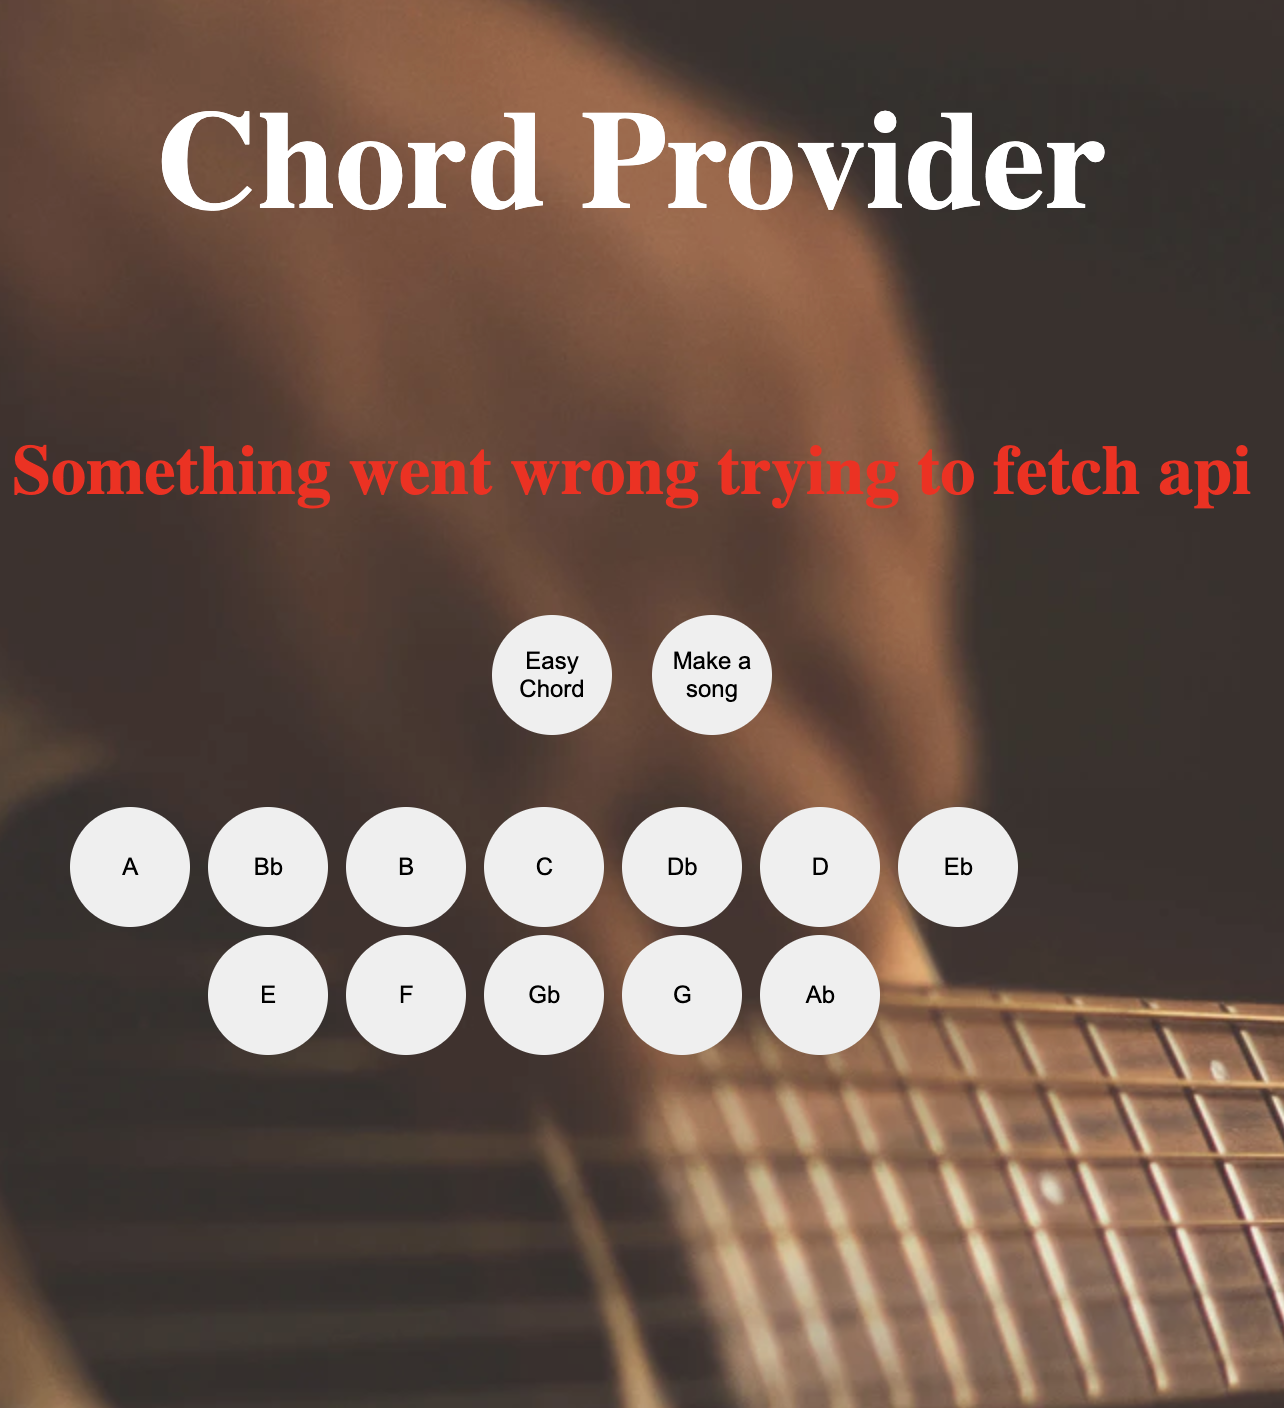
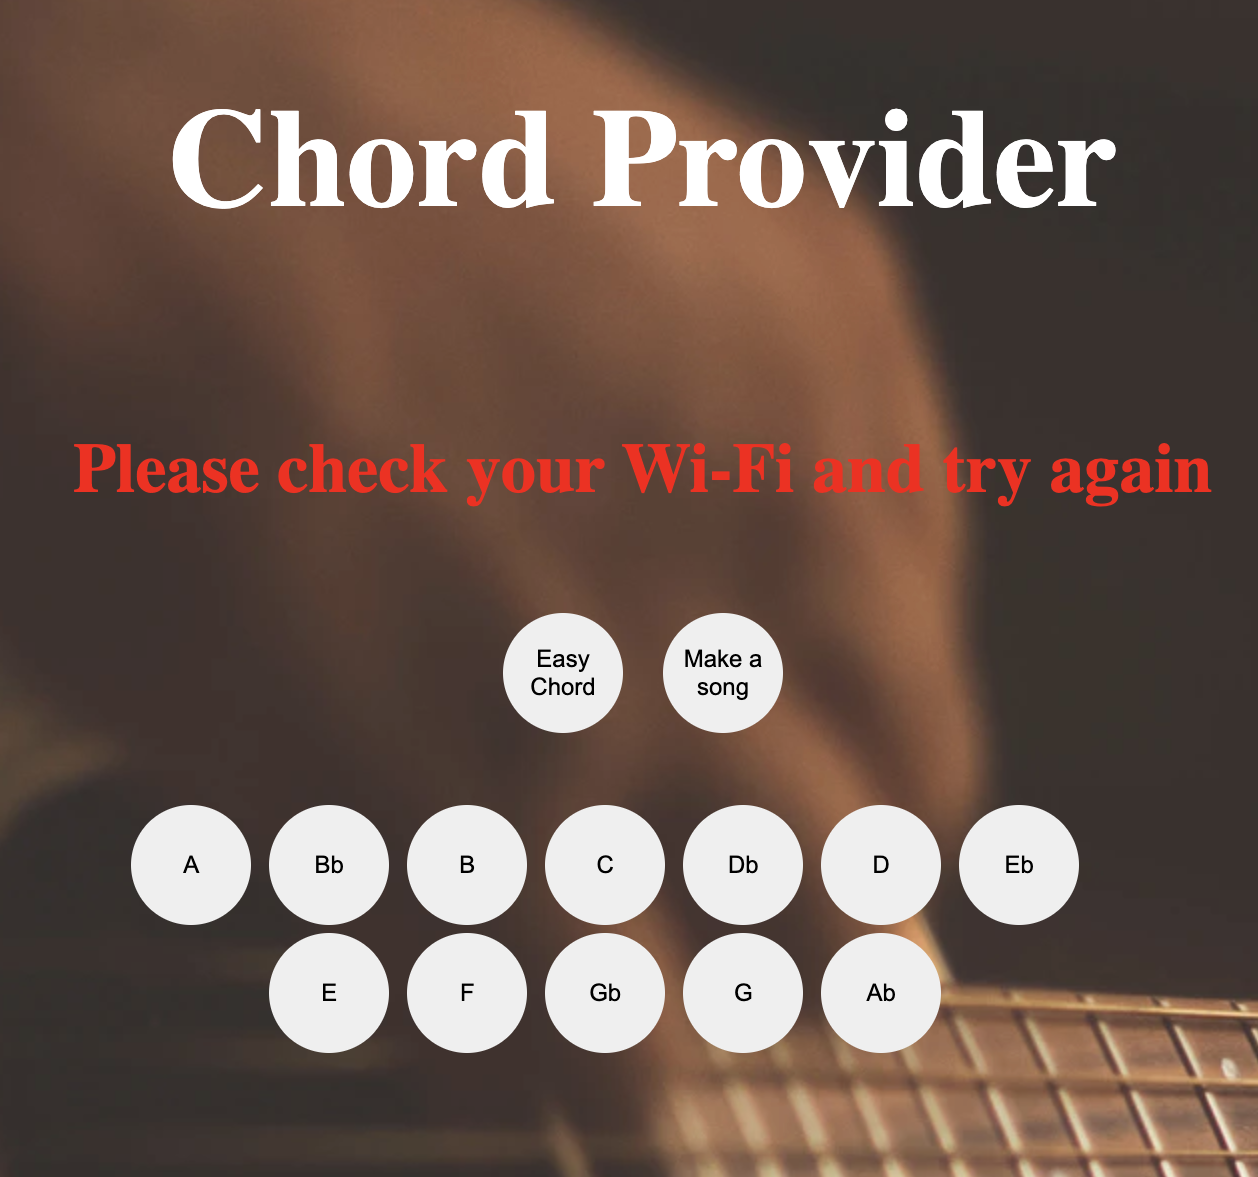
add reflektion

diff --git a/app/src/js/components/my-chordProviderWindow.js b/app/src/js/components/my-chordProviderWindow.js
@@ -73,17 +73,19 @@ customElements.define('my-chordproviderwindow',
       this.flash = this.shadowRoot.querySelector('#flash')
 
       this.chordButton.addEventListener('click', () => {
+        this.flash.style.color = 'white'
         this.flash.innerText = 'Go ahead and pick a chord'
         this.display.setAttribute('show', this.chordButton.getAttribute('text'))
       })
 
       this.chordsInKeyBtn.addEventListener('click', () => {
+        this.flash.style.color = 'white'
         this.flash.innerText = 'Go ahead and pick a chord for a song'
         this.display.setAttribute('show', this.chordsInKeyBtn.getAttribute('text'))
       })
 
       this.addEventListener('errorflash', (e) => {
-        this.flash.innerText = 'Something went wrong trying to fetch api'
+        this.flash.innerText = 'Please check your Wi-Fi and try again'
         this.flash.style.color = 'red'
       })
     }

diff --git a/Reflektion.md b/Reflektion.md
@@ -11,10 +11,11 @@ Genom hela skapandet av både min modul och denna app så har det här känts so
 
 # Functions 
 I bokens kapitel Functions har jag tagit fasta på tre koncept att försöka fokusera på som känns väldigt relaterade till varandra.
-**Small** - Denna regel säger enligt boken att funktioner i det flesta fall tjänar på att hållas små(20-30 rader). Detta har verkligen varit en utmaning att följa men det börjar kännas mer naturligt att hitta vägen närmre det resultatet. För att funktionerna ska kunna hållas små så hjälper koncepten **Do one thing** och **One level of abstraction per funktion** att åstadkomma detta. Det blir då också tydligt att exempelvis dessa tre koncept känns väldigt hårt sammankopplade. Försöker man följa ett konceptet **small** så blir de andra två på något sätt lösningen på att uppnå detta. Min publika metod getTransposedChords() tycker jag är ett bra exemel på detta. Den är liten, gör egentligen bara en sak och håller sig till en hög abstarktionsnivå och det är tydligt va den gör. Det man skulle kunna disktutera är att errorhandling faktiskt är en sak. Så på sätt och vis gör den ju även det men har svårt att se hur jag skulle lösa det på annat sätt.
+**Small** - Denna regel säger enligt boken att funktioner i det flesta fall tjänar på att hållas små(20-30 rader). Detta har verkligen varit en utmaning att följa men det börjar kännas mer naturligt att hitta vägen närmre det resultatet. För att funktionerna ska kunna hållas små så hjälper koncepten **Do one thing** och **One level of abstraction per funktion** att åstadkomma detta. Det blir då också tydligt att exempelvis dessa tre koncept känns väldigt hårt sammankopplade. Försöker man följa ett konceptet **small** så blir de andra två på något sätt lösningen på att uppnå detta. Min publika metod getTransposedChords() tycker jag är ett bra exemel på detta. Den är liten, gör egentligen bara en sak och håller sig till en hög abstarktionsnivå och det är tydligt va den gör. Det man skulle kunna disktutera är att errorhandling faktiskt är en sak. Så på sätt och vis gör den ju även det men har svårt att se hur jag skulle lösa det på annat sätt. I några fall på lägre abstraktionnivå har jag tyvärr inte kunnat följa detta fullt ut och bryter därmed mot **functions should not be large enough to hold nested structures** men jag får helt enkelt inse att en del saker tar längre tid att kunna applicera fullt ut.
 
 
- <img src="images/transposedchords.png" width="700" >
+ <img src="images/transposedchords.png" width="500" >  <img src="images/chordsthatfitsinkey.png" width="500" >
+
  
 
 # Comments 
@@ -39,11 +40,11 @@ I detta kapitel diskuterar författaren även en grundregel som kallas **The New
 
 
 # Error handling 
-Större delen av min error hantering ligger i en egen klass vid namn ErrorHandler där felen kastas uppåt och sedan får utvecklaren välja hur den vill hantera felen. Detta gör att övrig kod inte kladdas ner av felhanteringen i lika stor utsträckning. I Clean code kan vi läsa om att vi inte ska returnera null **Don´t return null** utan istället returnera exeptions. I kurserna där vi använt java som programmeringsspråk så har jag i stor utsträckning använt mig av att returnera null men inte alls på samma sätt i javascript. I gränssnittet har jag säkrat upp de flesta av felen som kan uppstå genom att jag bara erbjuder ett visst antal ackord som alternativ. Eftersom jag använder mig av ett api blir det dock viktigt att hantera ett fel som sker i kommunikationen med detta. Det gör jag med hjälp att ett custom event som skickar upp detta till föräldernoden som sen kan visa detta som ett flashmeddelande för slutanvändaren. I den komponent som använder min modul ligger sen de try catch som omsluter koden som berörs.
+Större delen av min error hantering ligger i en egen klass vid namn ErrorHandler där felen kastas uppåt och sedan får utvecklaren välja hur den vill hantera felen. Detta gör att övrig kod inte kladdas ner av felhanteringen i lika stor utsträckning. I Clean code kan vi läsa om att vi inte ska returnera null **Don´t return null** utan istället returnera exeptions. Därför använder jag mig bara av exeptions genomgående. I gränssnittet har jag säkrat upp de felen som kan uppstå genom att jag bara erbjuder ett visst antal ackord som alternativ. Eftersom jag använder mig av ett api blir det dock viktigt att hantera ett fel som sker i kommunikationen med detta. Det gör jag med hjälp att ett custom event som skickar upp detta till föräldernoden som sen kan visa felet som ett flashmeddelande för slutanvändaren utan att exponera error.message. I den komponent som använder min modul ligger sen de try catch som omsluter koden som berörs.
 
- <img src="images/errorhandler.png" width="700" >
----
+ <img src="images/errorhandler.png" width="500" > 
  <img src="images/display.png" width="700" >
+ 
 
 
 # Boundaries 
